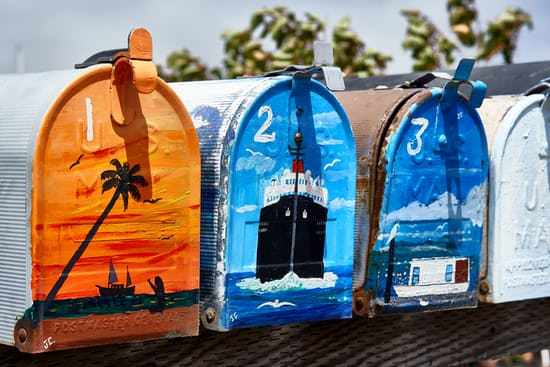
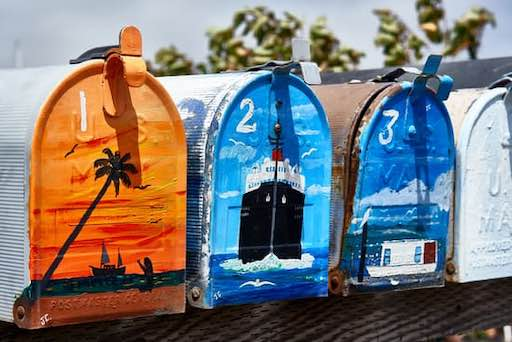
Optimize newly added images, drop gifs

diff --git a/tests/test_app.py b/tests/test_app.py
@@ -4,7 +4,6 @@ import httpx
 import pytest
 
 from server.resources import index
-from server import settings
 
 from .utils import find_meta_tags, load_xml_from_string
 
@@ -39,29 +38,6 @@ async def test_tag(client: httpx.AsyncClient) -> None:
     resp = await client.get(url, allow_redirects=False)
     assert resp.status_code == 200, resp.url
     assert "text/html" in resp.headers["content-type"]
-
-
-async def test_images(client: httpx.AsyncClient) -> None:
-    # TODO: test URLs to images in Markdown content too.
-    for page in index.pages:
-        if page.frontmatter.image is None:
-            continue
-
-        if page.frontmatter.image.startswith("http"):
-            # Remote images should exist.
-            url = page.frontmatter.image
-            async with httpx.AsyncClient() as http:
-                response = await http.get(url)
-                assert response.status_code == 200, url
-                # TODO: test image sizes.
-        else:
-            # Local images should exist, and be of reasonable sizes.
-            url = f"http://testserver{page.frontmatter.image}"
-            response = await client.get(url)
-            assert response.status_code == 200, url
-            assert (
-                len(response.content) / 1024 < settings.IMAGE_ALLOWED_MAX_SIZE_KB
-            ), url
 
 
 KNOWN_CATEGORIES = ["tutorials", "essays", "retrospectives"]

diff --git a/tests/test_images.py b/tests/test_images.py
@@ -3,7 +3,9 @@ import re
 import httpx
 import pytest
 
+from server import settings
 from server.resources import index
+from server.tools import imgoptimize, imgsize
 
 IMAGE_RE = re.compile(r"\!\[[^\[\]]*\]\((?P<url>[^\[\]]*?)\)")
 
@@ -30,6 +32,16 @@ async def test_images(client: httpx.AsyncClient) -> None:
             if response.status_code == 404:
                 # Image URL not found on local server -- it's probably remote.
                 remote_urls.append(url)
+            filesize_kb = len(response.content) / 10254
+            assert filesize_kb < settings.IMAGE_ALLOWED_MAX_SIZE_KB, url
 
     if remote_urls:
         raise AssertionError(remote_urls)
+
+
+def test_imgsize() -> None:
+    assert imgsize.main() == 0
+
+
+def test_imgoptimize() -> None:
+    assert imgoptimize.main(check=True) == 0

diff --git a/server/tools/imgoptimize.py b/server/tools/imgoptimize.py
@@ -37,7 +37,7 @@ def _main_check() -> int:
             outim.save(path_out)
             size_expected = path_out.stat().st_size
 
-        if size_actual != size_expected:  # pragma: no cover
+        if size_actual != size_expected and size_actual > 10 * KB:  # pragma: no cover
             print(f"ERROR: image could be optimized: {path_in}")
             rv |= 1
 

diff --git a/server/tools/imgsize.py b/server/tools/imgsize.py
@@ -1,7 +1,8 @@
-import sys
 import statistics
-from .utils import get_img_paths
+import sys
+
 from .. import settings
+from .utils import get_img_paths
 
 KB = 1024
 

diff --git a/content/articles/2018/10/reconciling-dataclasses-and-properties-in-python.md b/content/articles/2018/10/reconciling-dataclasses-and-properties-in-python.md
@@ -29,7 +29,7 @@ Of course, you'll find all the code supporting this post on [GitHub](https://git
 
 Dataclasses are, simply put, **classes made to hold data**. Their specification in [PEP-557](https://www.python.org/dev/peps/pep-0557) was motivated by the fact that a lot of classes we write are merely used as editable data containers. When that happens, we spend time writing boilerplate code which most often results in an ugly `__init__()` method with tons of arguments and just as many lines for storing them as attributes — not to speak about handling [default arguments](https://blog.florimondmanca.com/python-mutable-defaults-are-the-source-of-all-evil)…
 
-![Dataclasses, featuring Raymond Hettinger in a GIF.](/static/img/dataclasses-properties-hettinger.gif)
+![Dataclasses, featuring Raymond Hettinger.](/static/img/dataclasses-properties-hettinger.jpg)
 
 And there is! The answer is: **dataclasses**. 🎉
 

diff --git a/content/articles/2020/07/utterances-comments-personal-sites-github.md b/content/articles/2020/07/utterances-comments-personal-sites-github.md
@@ -25,7 +25,7 @@ There I found a lovely little comment section at the bottom of the page. The sty
 
 And so I learned that the comment section was powered by [Utterances](https://utteranc.es/).
 
-![Preview of the comments section on `rednafi.github.io`.](/static/img/articles/utterances-rednafi.jpg)
+![Preview of the comments section on `rednafi.github.io`.](/static/img/articles/utterances-rednafi.png)
 
 I had come across Utterances before but for some reason I had not realized how beautiful and elegant this piece of software is. So here I am, dedicating an entire blog entry to what I'd consider as a prime example of brilliant open source software.
 

diff --git a/content/articles/2018/10/inbox-zero-how-to-keep-clean-email-inbox-and-mind.md b/content/articles/2018/10/inbox-zero-how-to-keep-clean-email-inbox-and-mind.md
@@ -96,8 +96,6 @@ The first step should then be: **archive all emails presently in your inbox**. T
 
 And believe me, it's pretty relieving.
 
-![Gladly archive all your inbox. 👌 (Now.)](/static/img/inbox-zero-example.gif)
-
 ### 2. Deal with irrelevant incoming emails
 
 Is your inbox filling up with tons of ads or content you don't even care about? You need to sort this out.
